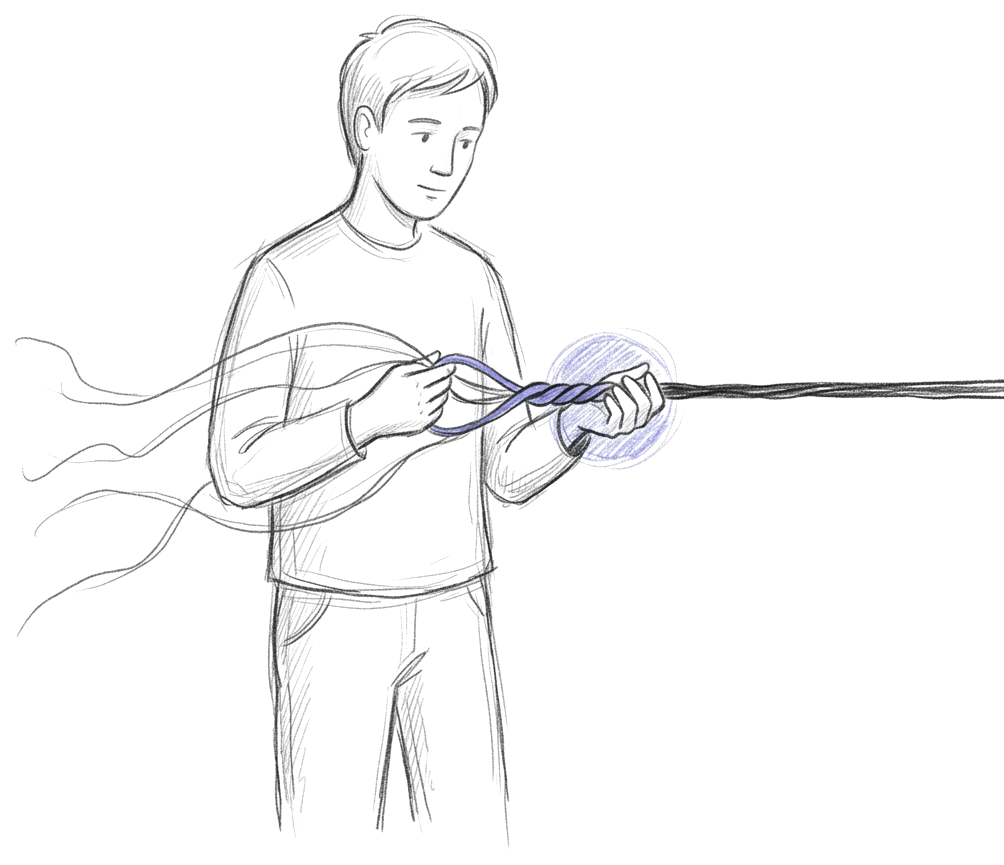
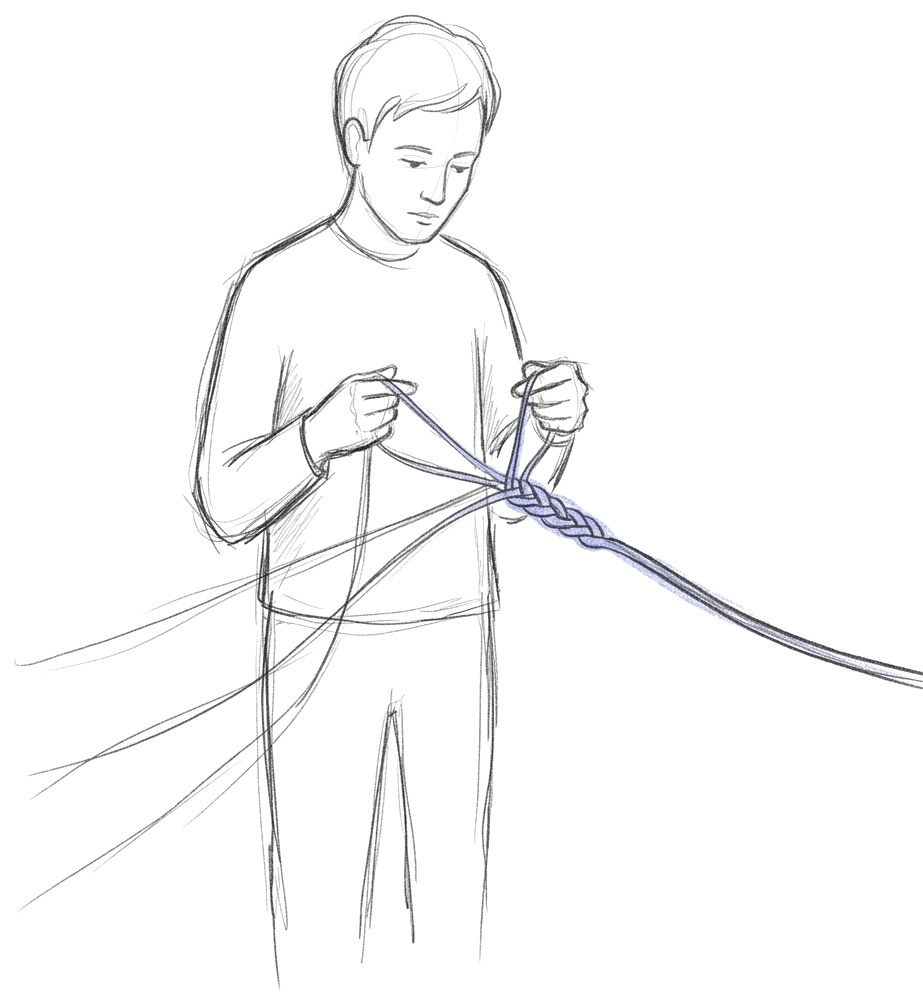
Approach block: solid final-paragraph color, switch illustration to vertical crop

diff --git a/index.html b/index.html
@@ -197,7 +197,7 @@ header.site .btn-primary{padding:11px 20px;font-size:14px}
 .about .visimg{display:block;width:100%;height:auto;object-fit:contain;transition:transform .25s ease-out}
 .about .vis:hover .visimg{transform:rotate(2deg)}
 .about .txt{flex:1 1 420px;max-width:640px}
-.about-final{font:400 17px/1.7 'Onest',sans-serif;color:rgba(22,24,29,.8);margin:40px 0 0;max-width:70ch;text-wrap:pretty}
+.about-final{font:400 17px/1.7 'Onest',sans-serif;color:#3A3D44;margin:40px 0 0;max-width:70ch;text-wrap:pretty}
 @media(max-width:900px){
   .about{flex-direction:column;gap:32px}
   .about .vis{order:-1;max-width:100%;width:100%;margin-top:0}
@@ -558,7 +558,7 @@ footer.site nav{display:flex;gap:24px;flex-wrap:wrap;font:400 14px 'Onest',sans-
   <div class="wrap">
     <hr class="rule" style="margin-bottom:clamp(56px,9vw,120px)">
     <div class="about">
-      <div class="vis" data-rv><img class="visimg" src="/approach.png" alt="" loading="lazy" width="1004" height="865"></div>
+      <div class="vis" data-rv><img class="visimg" src="/approach.png" alt="" loading="lazy" width="923" height="1005"></div>
       <div class="txt">
         <p class="eyebrow" data-rv><svg class="pzm" viewBox="0 0 100 100" aria-hidden="true"><path d="M28,18 H40 A10,10 0 0 0 60,18 H72 A10,10 0 0 1 82,28 V72 A10,10 0 0 1 72,82 H28 A10,10 0 0 1 18,72 V62 A10,10 0 0 1 18,40 V28 A10,10 0 0 1 28,18 Z" fill="currentColor"/></svg> Подход</p>
         <h2 data-rv style="font-size:clamp(26px,2.6vw,36px);margin-bottom:24px">Один процесс, а&nbsp;не набор услуг</h2>
